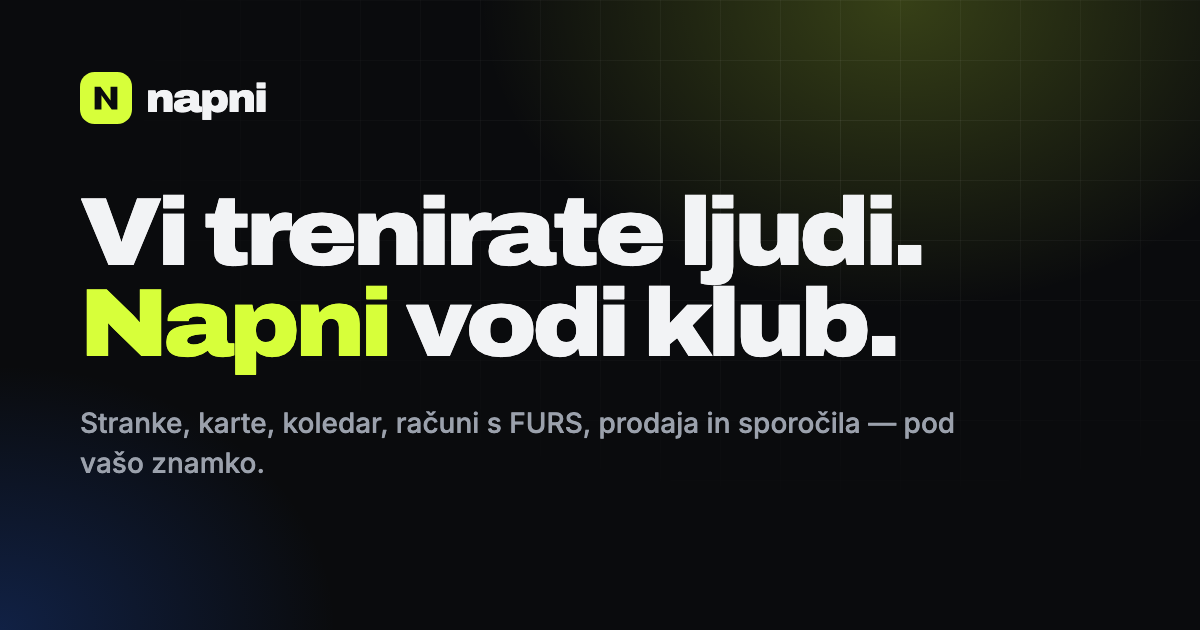
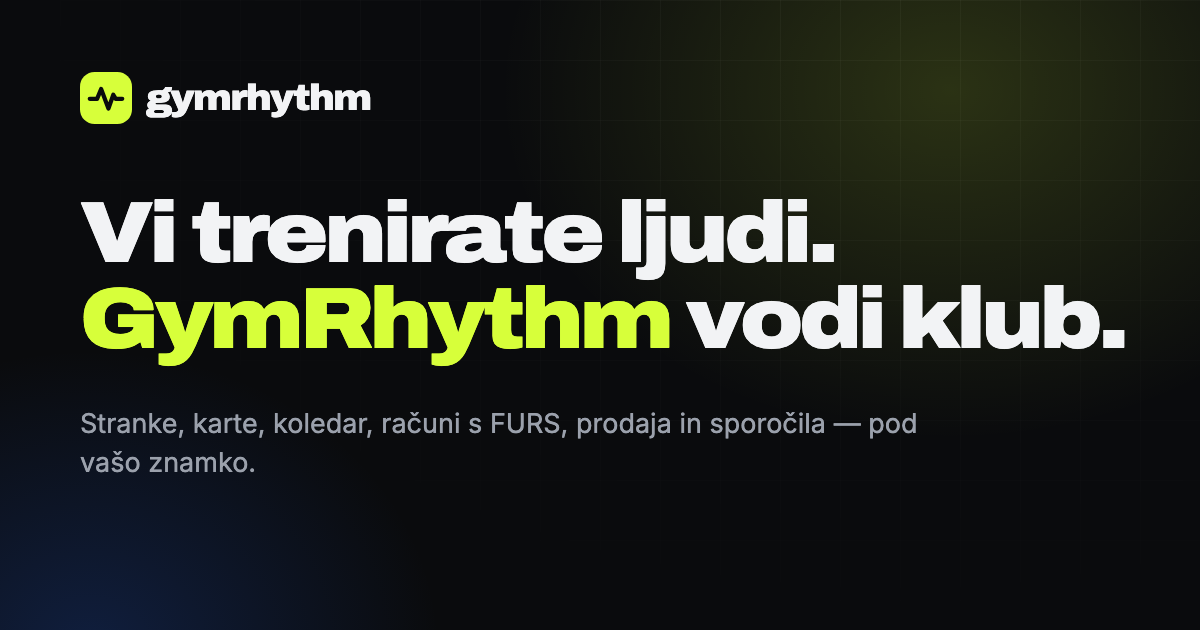
Rebrand to GymRhythm on gymrhythmapp.com
Rename Napni to GymRhythm across copy, meta and README; new pulse logo
mark and favicon; contact and club addresses on gymrhythmapp.com;
canonical/og:url tags; regenerated og.png; fit hero and CTA watermark
to the longer name.

diff --git a/index.html b/index.html
@@ -3,14 +3,17 @@
 <head>
   <meta charset="utf-8">
   <meta name="viewport" content="width=device-width, initial-scale=1">
-  <title>Napni — vse za vodenje fitnesa, pod vašo znamko</title>
-  <meta name="description" content="Napni je platforma na ključ za fitnese in vadbene studie: stranke, karte, koledar, računi z davčnim potrjevanjem, CRM, sporočila in poročila. Pod vašim logotipom, na vaši domeni.">
+  <title>GymRhythm — vse za vodenje fitnesa, pod vašo znamko</title>
+  <meta name="description" content="GymRhythm je platforma na ključ za fitnese in vadbene studie: stranke, karte, koledar, računi z davčnim potrjevanjem, CRM, sporočila in poročila. Pod vašim logotipom, na vaši domeni.">
   <meta name="theme-color" content="#0a0b0d">
+  <link rel="canonical" href="https://gymrhythmapp.com/">
   <meta property="og:type" content="website">
+  <meta property="og:url" content="https://gymrhythmapp.com/">
+  <meta property="og:site_name" content="GymRhythm">
   <meta property="og:locale" content="sl_SI">
-  <meta property="og:title" content="Napni — vse za vodenje fitnesa, pod vašo znamko">
+  <meta property="og:title" content="GymRhythm — vse za vodenje fitnesa, pod vašo znamko">
   <meta property="og:description" content="Stranke, karte, koledar, računi s FURS, CRM in sporočila v eni aplikaciji. Postavljena v minutah, pod vašim logotipom.">
-  <meta property="og:image" content="https://chrassy.github.io/napni-landing/og.png">
+  <meta property="og:image" content="https://gymrhythmapp.com/og.png">
   <meta name="twitter:card" content="summary_large_image">
   <link rel="icon" href="favicon.svg" type="image/svg+xml">
   <link rel="preconnect" href="https://fonts.googleapis.com">
@@ -24,9 +27,9 @@
   <!-- ============ NAV ============ -->
   <header class="nav" id="nav">
     <div class="wrap nav__inner">
-      <a class="logo" href="#" aria-label="Napni — na vrh">
-        <svg class="logo__mark" viewBox="0 0 32 32" aria-hidden="true"><rect width="32" height="32" rx="9" fill="var(--volt)"/><path d="M9 23V9h3.6l6.2 8.6V9H23v14h-3.5l-6.3-8.7V23z" fill="#0a0b0d"/></svg>
-        <span class="logo__word">napni</span>
+      <a class="logo" href="#" aria-label="GymRhythm — na vrh">
+        <svg class="logo__mark" viewBox="0 0 32 32" aria-hidden="true"><rect width="32" height="32" rx="9" fill="var(--volt)"/><path d="M6 16.5h4.5l2.5-6 4.5 12 3-8.5 1.5 2.5H26" fill="none" stroke="#0a0b0d" stroke-width="2.6" stroke-linecap="round" stroke-linejoin="round"/></svg>
+        <span class="logo__word">gymrhythm</span>
       </a>
       <nav class="nav__links" aria-label="Glavna navigacija">
         <a href="#funkcije">Funkcije</a>
@@ -63,7 +66,7 @@
         <p class="eyebrow reveal"><span class="pulse"></span> Platforma na ključ za fitnese in studie</p>
         <h1 class="hero__title reveal">
           Vi trenirate ljudi.<br>
-          <span class="hl">Napni</span> vodi klub.
+          <span class="hl">GymRhythm</span> <span class="hero__keep">vodi klub.</span>
         </h1>
         <p class="hero__lead reveal">
           Stranke, karte, koledar, računi z davčnim potrjevanjem, prodaja, sporočila in poročila — v eni aplikaciji, pod vašim logotipom in na vaši domeni. Postavljena v minutah, ne v mesecih.
@@ -80,7 +83,7 @@
 
         <!-- product mock -->
         <div class="stage reveal" data-club-theme>
-          <div class="app" role="img" aria-label="Prikaz nadzorne plošče aplikacije Napni">
+          <div class="app" role="img" aria-label="Prikaz nadzorne plošče aplikacije GymRhythm">
             <div class="app__bar">
               <span class="dots"><i></i><i></i><i></i></span>
               <span class="app__url"><svg viewBox="0 0 16 16" aria-hidden="true"><path d="M5 7V5a3 3 0 0 1 6 0v2" fill="none" stroke="currentColor" stroke-width="1.5"/><rect x="3.5" y="7" width="9" height="7" rx="1.5" fill="currentColor"/></svg><span data-club-domain>app.atlasgym.si</span></span>
@@ -158,9 +161,9 @@
     <section class="section problem">
       <div class="wrap">
         <div class="section__head reveal">
-          <p class="kicker">Zakaj Napni</p>
+          <p class="kicker">Zakaj GymRhythm</p>
           <h2>Ena aplikacija namesto petih.</h2>
-          <p class="section__lead">Večina klubov teče na Excelu, papirnatih pogodbah, ločeni blagajni, koledarju v telefonu in opomnikih, ki jih nekdo pošilja na roke. Napni vse to poveže — in iz istih podatkov sam izračuna, kar ste prej šteli ročno.</p>
+          <p class="section__lead">Večina klubov teče na Excelu, papirnatih pogodbah, ločeni blagajni, koledarju v telefonu in opomnikih, ki jih nekdo pošilja na roke. GymRhythm vse to poveže — in iz istih podatkov sam izračuna, kar ste prej šteli ročno.</p>
         </div>
         <div class="vs reveal">
           <div class="vs__col vs__col--before">
@@ -176,7 +179,7 @@
           </div>
           <div class="vs__arrow" aria-hidden="true">→</div>
           <div class="vs__col vs__col--after">
-            <h3>Z Napnijem</h3>
+            <h3>Z GymRhythmom</h3>
             <ul>
               <li>En register strank s celotno zgodovino</li>
               <li>E-podpis, shranjeno pri stranki</li>
@@ -235,7 +238,7 @@
           <article class="card reveal">
             <div class="card__ic"><i class="ic ic-card"></i></div>
             <h3>Spletna plačila</h3>
-            <p>Povežite svoj Stripe z enim klikom. Stranka plača predračun s kartico, Napni izda račun, potrdi ga pri FURS in podaljša karto.</p>
+            <p>Povežite svoj Stripe z enim klikom. Stranka plača predračun s kartico, GymRhythm izda račun, potrdi ga pri FURS in podaljša karto.</p>
           </article>
           <article class="card reveal">
             <div class="card__ic"><i class="ic ic-till"></i></div>
@@ -355,7 +358,7 @@
         <div class="section__head reveal">
           <p class="kicker">Računi in FURS</p>
           <h2>Od predračuna do nove karte — brez enega ročnega koraka.</h2>
-          <p class="section__lead">Stranka plača predračun po UPN ali s kartico. Napni izda račun, ga davčno potrdi pri FURS, pošlje PDF in podaljša karto. Vi samo pogledate, da je vse zeleno.</p>
+          <p class="section__lead">Stranka plača predračun po UPN ali s kartico. GymRhythm izda račun, ga davčno potrdi pri FURS, pošlje PDF in podaljša karto. Vi samo pogledate, da je vse zeleno.</p>
         </div>
 
         <ol class="flow reveal">
@@ -387,7 +390,7 @@
             <ul class="checks checks--tight">
               <li>Potrdilo FURS (.p12) preverimo ob nalaganju: geslo, izdajatelj, davčna številka, veljavnost</li>
               <li>Opozorilo po e-pošti 60, 30, 7 in 1 dan pred iztekom potrdila</li>
-              <li>Če FURS ne odgovori, račun vseeno izdate — Napni ga pošlje naknadno, sam</li>
+              <li>Če FURS ne odgovori, račun vseeno izdate — GymRhythm ga pošlje naknadno, sam</li>
               <li>Prijava poslovnega prostora za vsako lokacijo</li>
               <li>Testni način s testnim okoljem FURS, dokler niste pripravljeni</li>
               <li>Blagajnik z davčno številko na vsakem računu</li>
@@ -416,7 +419,7 @@
           <p class="section__lead">Dnevna karta in dve vodi — ali nova karta za stranko, ki jo plača njeno podjetje. Vsaka prodaja na blagajni gre skozi isto izdajo kot računi, zato so številčenje, FURS, plačniki in karte vedno usklajeni.</p>
           <ul class="checks">
             <li><b>Cenik kot ploščice</b> — članarine, storitve, izdelki — in iskanje, kjer Enter doda prvi zadetek</li>
-            <li><b>Gotovina, kartica ali nakazilo</b>; pri gotovini Napni izračuna vračilo</li>
+            <li><b>Gotovina, kartica ali nakazilo</b>; pri gotovini GymRhythm izračuna vračilo</li>
             <li><b>Končni kupec</b> za hiter nakup brez imena; karta pa vedno dobi svojo stranko</li>
             <li><b>Danes</b>: promet po načinu plačila in »prejeto na blagajni« za zaključek predala</li>
             <li><b>Na blagajni</b> s profila stranke odpre blagajno z izbrano stranko in njenim plačnikom</li>
@@ -490,7 +493,7 @@
         <div class="split__copy reveal">
           <p class="kicker">Pogodbe in e-podpisi</p>
           <h2>Podpis s prstom. Dokaz za vedno.</h2>
-          <p class="section__lead">Pogodbo o sodelovanju in pristopno izjavo stranka podpiše na tablici na recepciji ali doma, prek povezave v e-pošti. Napni shrani točno besedilo, ki ga je podpisala — ne le podpis.</p>
+          <p class="section__lead">Pogodbo o sodelovanju in pristopno izjavo stranka podpiše na tablici na recepciji ali doma, prek povezave v e-pošti. GymRhythm shrani točno besedilo, ki ga je podpisala — ne le podpis.</p>
           <ul class="checks">
             <li><b>Podpis zdaj</b> na tej napravi ali <b>Pošlji v podpis</b> po e-pošti; povezava velja 14 dni in samo enkrat</li>
             <li><b>Stranka preveri svoje podatke</b>, popravki se shranijo v njen profil</li>
@@ -562,7 +565,7 @@
         <div class="split__copy reveal">
           <p class="kicker">Opomniki</p>
           <h2>Pravo sporočilo, pravi osebi, ob pravem času.</h2>
-          <p class="section__lead">Napni sam pošilja opomnike po e-pošti — pred terminom in pred iztekom karte. Vsakega samo enkrat, le med 8. in 20. uro, odgovori pa pridejo na naslov kluba.</p>
+          <p class="section__lead">GymRhythm sam pošilja opomnike po e-pošti — pred terminom in pred iztekom karte. Vsakega samo enkrat, le med 8. in 20. uro, odgovori pa pridejo na naslov kluba.</p>
           <ul class="checks">
             <li><b>Opomnik pred terminom</b> dan prej (ali isto jutro za zgodnji termin), za stranke in kontakte</li>
             <li><b>Opomnik pred iztekom karte</b> — privzeto 7 dni prej, nastavljivo od 1 do 30 — le če podaljšanje še ni prodano</li>
@@ -660,9 +663,9 @@
             <p class="section__lead">Klub postavimo v nekaj minutah. Do zagona dela v testnem načinu: računi gredo v testno okolje FURS, plačila s kartico so testna, sporočila dobi samo ekipa. Priprava kluba sproti pokaže, kaj še manjka — in kje to uredite.</p>
           </div>
           <ol class="steps">
-            <li class="reveal"><span>1</span><div><h3>Postavitev kluba</h3><p>Lastna baza, prijava in naslov <b>vasklub.napni.si</b> — takoj z varno povezavo.</p></div></li>
+            <li class="reveal"><span>1</span><div><h3>Postavitev kluba</h3><p>Lastna baza, prijava in naslov <b>vasklub.gymrhythmapp.com</b> — takoj z varno povezavo.</p></div></li>
             <li class="reveal"><span>2</span><div><h3>Priprava kluba</h3><p>Podatki podjetja, lokacije, potrdilo FURS in poslovni prostor, davčne številke blagajnikov, cenik in Stripe. Vsaka postavka ima povezavo »Uredi« do mesta, kjer jo uredite.</p></div></li>
-            <li class="reveal"><span>3</span><div><h3>Uvoz strank iz Excela</h3><p>Napni sam prepozna stolpce, karte poveže s cenikom in pred uvozom pokaže, katere vrstice so pripravljene, katere so podvojene in kaj je narobe. Uvoz lahko tudi <b>prekličete</b>.</p></div></li>
+            <li class="reveal"><span>3</span><div><h3>Uvoz strank iz Excela</h3><p>GymRhythm sam prepozna stolpce, karte poveže s cenikom in pred uvozom pokaže, katere vrstice so pripravljene, katere so podvojene in kaj je narobe. Uvoz lahko tudi <b>prekličete</b>.</p></div></li>
             <li class="reveal"><span>4</span><div><h3>Gremo v živo</h3><p>Ko so obvezne postavke zelene, lastnik pritisne »Gremo v živo«. Strežnik seznam preveri še enkrat — brez izjem — in zapiše, kdaj se je klub zagnal.</p></div></li>
           </ol>
         </div>
@@ -693,7 +696,7 @@
         <div class="sec-grid">
           <div class="sec reveal"><b>1 baza = 1 klub</b><p>Vsak klub ima svojo bazo in svojo prijavo. Podatki enega kluba drugemu niso dosegljivi niti po pomoti.</p></div>
           <div class="sec reveal"><b>Podatki v EU</b><p>Gostovanje v Frankfurtu, ves promet šifriran, varnostne kopije z obnovitvijo na točko v času.</p></div>
-          <div class="sec reveal"><b>Brez vpogleda brez dovoljenja</b><p>Ekipa Napni vaših podatkov ne vidi. Za podporo nam lastnik odobri časovno omejen dostop, vsak korak pa ostane v dnevniku.</p></div>
+          <div class="sec reveal"><b>Brez vpogleda brez dovoljenja</b><p>Ekipa GymRhythm vaših podatkov ne vidi. Za podporo nam lastnik odobri časovno omejen dostop, vsak korak pa ostane v dnevniku.</p></div>
           <div class="sec reveal"><b>Šifrirane skrivnosti</b><p>Potrdila FURS in ključi integracij so zapečateni s Cloud KMS. Do vašega ključa Stripe sploh ne pridemo.</p></div>
           <div class="sec reveal"><b>Privolitve kot dokaz</b><p>Vsak »da« in »ne« po kanalu in namenu ostane zabeležen z datumom — vaš dokaz po GDPR.</p></div>
           <div class="sec reveal"><b>Vaši podatki, vaš izhod</b><p>Lastnik kadarkoli v nastavitvah prenese ZIP z vsemi tabelami (CSV, ki ga odpre Excel) in vsemi dokumenti. Vsak prenos je zabeležen.</p></div>
@@ -705,7 +708,7 @@
     <section class="section origin">
       <div class="wrap"><div class="origin__inner reveal">
         <blockquote>
-          Napni ni nastal na tabli v pisarni. Zrasel je iz aplikacije, ki vsak dan vodi pravi fitnes v Ljubljani — z vsemi računi, pogodbami in opomniki vred.
+          GymRhythm ni nastal na tabli v pisarni. Zrasel je iz aplikacije, ki vsak dan vodi pravi fitnes v Ljubljani — z vsemi računi, pogodbami in opomniki vred.
         </blockquote>
         <dl class="stats">
           <div><dt><span class="num" data-count="15">15</span></dt><dd>modulov</dd></div>
@@ -746,7 +749,7 @@
             <ul class="checks checks--tight">
               <li>Vse iz Osnove</li>
               <li>Osebna postavitev in uvoz podatkov z nami</li>
-              <li>Neposredna linija do ekipe, ki gradi Napni</li>
+              <li>Neposredna linija do ekipe, ki gradi GymRhythm</li>
               <li>Vpliv na to, kaj gradimo naslednje</li>
               <li>Pogoji pilotnega kluba, zaklenjeni vnaprej</li>
             </ul>
@@ -788,7 +791,7 @@
         <div class="faq__list">
           <details class="reveal">
             <summary>Ali moram karkoli namestiti?</summary>
-            <p>Ne. Napni teče v brskalniku na računalniku, tablici in telefonu. Strežnike, posodobitve in varnostne kopije urejamo mi.</p>
+            <p>Ne. GymRhythm teče v brskalniku na računalniku, tablici in telefonu. Strežnike, posodobitve in varnostne kopije urejamo mi.</p>
           </details>
           <details class="reveal">
             <summary>Kako hitro lahko začnemo?</summary>
@@ -796,11 +799,11 @@
           </details>
           <details class="reveal">
             <summary>Lahko prenesemo podatke iz obstoječega programa?</summary>
-            <p>Da. Stranke in njihove veljavne karte uvozite iz Excela (.xlsx) ali CSV-ja, tudi v kodiranju slovenskega Excela. Napni sam prepozna stolpce v slovenščini ali angleščini, karte poveže s cenikom in pred uvozom pokaže, katere vrstice so pripravljene, katere so podvojene in kaj je narobe. Če se zmotite, uvoz prekličete.</p>
+            <p>Da. Stranke in njihove veljavne karte uvozite iz Excela (.xlsx) ali CSV-ja, tudi v kodiranju slovenskega Excela. GymRhythm sam prepozna stolpce v slovenščini ali angleščini, karte poveže s cenikom in pred uvozom pokaže, katere vrstice so pripravljene, katere so podvojene in kaj je narobe. Če se zmotite, uvoz prekličete.</p>
           </details>
           <details class="reveal">
-            <summary>Ali Napni res izdaja davčno potrjene račune?</summary>
-            <p>Da. Naložite svoje potrdilo FURS, prijavite poslovni prostor za vsako lokacijo in Napni potrjuje račune z ZOI in EOR. Dokler ste v testnem načinu, gredo računi v testno okolje FURS. Če FURS za trenutek ni dosegljiv, račun vseeno izdate in Napni ga pošlje naknadno.</p>
+            <summary>Ali GymRhythm res izdaja davčno potrjene račune?</summary>
+            <p>Da. Naložite svoje potrdilo FURS, prijavite poslovni prostor za vsako lokacijo in GymRhythm potrjuje račune z ZOI in EOR. Dokler ste v testnem načinu, gredo računi v testno okolje FURS. Če FURS za trenutek ni dosegljiv, račun vseeno izdate in GymRhythm ga pošlje naknadno.</p>
           </details>
           <details class="reveal">
             <summary>Imamo več lokacij. Ali to deluje?</summary>
@@ -808,7 +811,7 @@
           </details>
           <details class="reveal">
             <summary>Kdo ima dostop do podatkov naših strank?</summary>
-            <p>Samo vaša ekipa, glede na vloge, ki jih določite. Ekipa Napni do podatkov nima dostopa, razen če ga lastnik kluba časovno omejeno odobri za podporo — in vsak korak je zabeležen v dnevniku kluba.</p>
+            <p>Samo vaša ekipa, glede na vloge, ki jih določite. Ekipa GymRhythm do podatkov nima dostopa, razen če ga lastnik kluba časovno omejeno odobri za podporo — in vsak korak je zabeležen v dnevniku kluba.</p>
           </details>
           <details class="reveal">
             <summary>Kaj se zgodi, če odidemo?</summary>
@@ -816,11 +819,11 @@
           </details>
           <details class="reveal">
             <summary>Kdo pripravi besedilo pogodbe in pristopne izjave?</summary>
-            <p>Od prvega dne imate vzorčno besedilo Napni. Pred zagonom naj ga pregleda vaš pravnik; spremembe nam pošljete in ekipa Napni objavi novo, pregledano različico. Vsak podpisan dokument ostane vezan na besedilo, ki ga je stranka res podpisala.</p>
+            <p>Od prvega dne imate vzorčno besedilo GymRhythm. Pred zagonom naj ga pregleda vaš pravnik; spremembe nam pošljete in ekipa GymRhythm objavi novo, pregledano različico. Vsak podpisan dokument ostane vezan na besedilo, ki ga je stranka res podpisala.</p>
           </details>
           <details class="reveal">
             <summary>Ali lahko uporabljamo svojo domeno?</summary>
-            <p>Da. Takoj dobite naslov <b>vasklub.napni.si</b>, kadarkoli pa lahko dodate lastno domeno, npr. app.vasklub.si. Certifikat HTTPS se uredi samodejno.</p>
+            <p>Da. Takoj dobite naslov <b>vasklub.gymrhythmapp.com</b>, kadarkoli pa lahko dodate lastno domeno, npr. app.vasklub.si. Certifikat HTTPS se uredi samodejno.</p>
           </details>
         </div>
       </div>
@@ -829,22 +832,22 @@
     <!-- ============ CTA ============ -->
     <section class="cta" id="kontakt">
       <div class="wrap"><div class="cta__inner reveal">
-        <h2>Napnimo vaš klub.</h2>
-        <p>Pokažemo vam Napni na vaših primerih — od nove stranke do potrjenega računa — v 30 minutah.</p>
+        <h2>Uglasimo vaš klub.</h2>
+        <p>Pokažemo vam GymRhythm na vaših primerih — od nove stranke do potrjenega računa — v 30 minutah.</p>
         <div class="cta__actions">
-          <a class="btn btn--dark btn--lg" data-mail data-subject="Predstavitev Napni" href="mailto:info@napni.si?subject=Predstavitev%20Napni">Rezervirajte predstavitev <span aria-hidden="true">→</span></a>
-          <a class="btn btn--outline-dark btn--lg" data-mail data-subject="Pilotni klub Napni" href="mailto:info@napni.si?subject=Pilotni%20klub%20Napni">Prijavite se kot pilotni klub</a>
+          <a class="btn btn--dark btn--lg" data-mail data-subject="Predstavitev GymRhythm" href="mailto:info@gymrhythmapp.com?subject=Predstavitev%20GymRhythm">Rezervirajte predstavitev <span aria-hidden="true">→</span></a>
+          <a class="btn btn--outline-dark btn--lg" data-mail data-subject="Pilotni klub GymRhythm" href="mailto:info@gymrhythmapp.com?subject=Pilotni%20klub%20GymRhythm">Prijavite se kot pilotni klub</a>
         </div>
-        <p class="cta__mail">ali pišite na <a data-mail data-plain href="mailto:info@napni.si">info@napni.si</a></p>
+        <p class="cta__mail">ali pišite na <a data-mail data-plain href="mailto:info@gymrhythmapp.com">info@gymrhythmapp.com</a></p>
       </div></div>
     </section>
   </main>
 
   <footer class="footer">
     <div class="wrap footer__inner">
-      <a class="logo" href="#" aria-label="Napni — na vrh">
-        <svg class="logo__mark" viewBox="0 0 32 32" aria-hidden="true"><rect width="32" height="32" rx="9" fill="var(--volt)"/><path d="M9 23V9h3.6l6.2 8.6V9H23v14h-3.5l-6.3-8.7V23z" fill="#0a0b0d"/></svg>
-        <span class="logo__word">napni</span>
+      <a class="logo" href="#" aria-label="GymRhythm — na vrh">
+        <svg class="logo__mark" viewBox="0 0 32 32" aria-hidden="true"><rect width="32" height="32" rx="9" fill="var(--volt)"/><path d="M6 16.5h4.5l2.5-6 4.5 12 3-8.5 1.5 2.5H26" fill="none" stroke="#0a0b0d" stroke-width="2.6" stroke-linecap="round" stroke-linejoin="round"/></svg>
+        <span class="logo__word">gymrhythm</span>
       </a>
       <p>Platforma na ključ za fitnese in vadbene studie. Narejeno v Sloveniji.</p>
       <nav aria-label="Noga">
@@ -854,7 +857,7 @@
         <a href="#cenik">Cenik</a>
         <a href="#kontakt">Kontakt</a>
       </nav>
-      <small>© <span id="year">2026</span> Napni. Imena strank, trenerjev in zneski na tej strani so ponazoritve.</small>
+      <small>© <span id="year">2026</span> GymRhythm. Imena strank, trenerjev in zneski na tej strani so ponazoritve.</small>
     </div>
   </footer>
 

diff --git a/styles.css b/styles.css
@@ -1,5 +1,5 @@
-/* Napni landing — tokens
-   --volt is Napni's own brand; --club is the demo Club's accent,
+/* GymRhythm landing — tokens
+   --volt is GymRhythm's own brand; --club is the demo Club's accent,
    changed live by the white-label tuner. */
 :root {
   color-scheme: dark;
@@ -136,6 +136,7 @@ button { font: inherit; color: inherit; }
   font-size: clamp(44px, 8.4vw, 112px); font-weight: 900; font-stretch: 112%; letter-spacing: -0.045em; line-height: .94;
 }
 .hl { color: var(--volt); position: relative; white-space: nowrap; }
+.hero__keep { white-space: nowrap; }
 .hero__lead { margin: 28px auto 0; max-width: 680px; color: var(--muted); font-size: clamp(17px, 2vw, 20px); line-height: 1.55; }
 .hero__ctas { display: flex; flex-wrap: wrap; justify-content: center; gap: 12px; margin-top: 36px; }
 .hero__ticks { display: flex; flex-wrap: wrap; justify-content: center; gap: 10px 26px; margin-top: 26px; color: var(--muted); font-size: 14px; }
@@ -568,8 +569,8 @@ button { font: inherit; color: inherit; }
   background: var(--volt); color: var(--volt-ink);
 }
 .cta__inner::before {
-  content: "napni"; position: absolute; left: 50%; bottom: -0.32em; transform: translateX(-50%);
-  font: 900 clamp(140px, 26vw, 360px)/1 var(--display); font-stretch: 125%; letter-spacing: -0.06em; color: rgba(10,11,13,.06); pointer-events: none; white-space: nowrap;
+  content: "gymrhythm"; position: absolute; left: 50%; bottom: -0.32em; transform: translateX(-50%);
+  font: 900 clamp(56px, 13vw, 190px)/1 var(--display); font-stretch: 125%; letter-spacing: -0.06em; color: rgba(10,11,13,.06); pointer-events: none; white-space: nowrap;
 }
 .cta h2 { position: relative; font-size: clamp(42px, 7vw, 92px); font-weight: 900; font-stretch: 115%; letter-spacing: -0.045em; line-height: .95; }
 .cta p { position: relative; max-width: 560px; margin: 22px auto 0; font-size: 19px; color: rgba(10,11,13,.75); }

diff --git a/script.js b/script.js
@@ -1,9 +1,9 @@
-// Napni landing — small, dependency-free enhancements.
+// GymRhythm landing — small, dependency-free enhancements.
 (() => {
   "use strict";
 
   // The one place to change the contact address.
-  const CONTACT_EMAIL = "info@napni.si";
+  const CONTACT_EMAIL = "info@gymrhythmapp.com";
 
   const root = document.documentElement;
   root.classList.remove("no-js");

diff --git a/README.md b/README.md
@@ -1,9 +1,9 @@
-# Napni — landing page
+# GymRhythm — landing page
 
-Marketing page for Napni, the turn-key white-label management platform for gyms.
+Marketing page for GymRhythm, the turn-key white-label management platform for gyms.
 Plain HTML, CSS and JS, no build step. Slovenian copy.
 
-Live: https://chrassy.github.io/napni-landing/
+Live: https://gymrhythmapp.com/
 
 ## Local preview
 
@@ -16,7 +16,7 @@ Then open <http://localhost:4173>.
 ## Editing
 
 - `index.html` — all copy and sections
-- `styles.css` — tokens at the top (`--volt` is Napni's colour, `--club` the demo club's accent)
+- `styles.css` — tokens at the top (`--volt` is GymRhythm's colour, `--club` the demo club's accent)
 - `script.js` — reveal animations, the white-label tuner, go-live checklist; `CONTACT_EMAIL` at the top sets every contact link
 - `og.png` — social preview image (1200×630)
 
